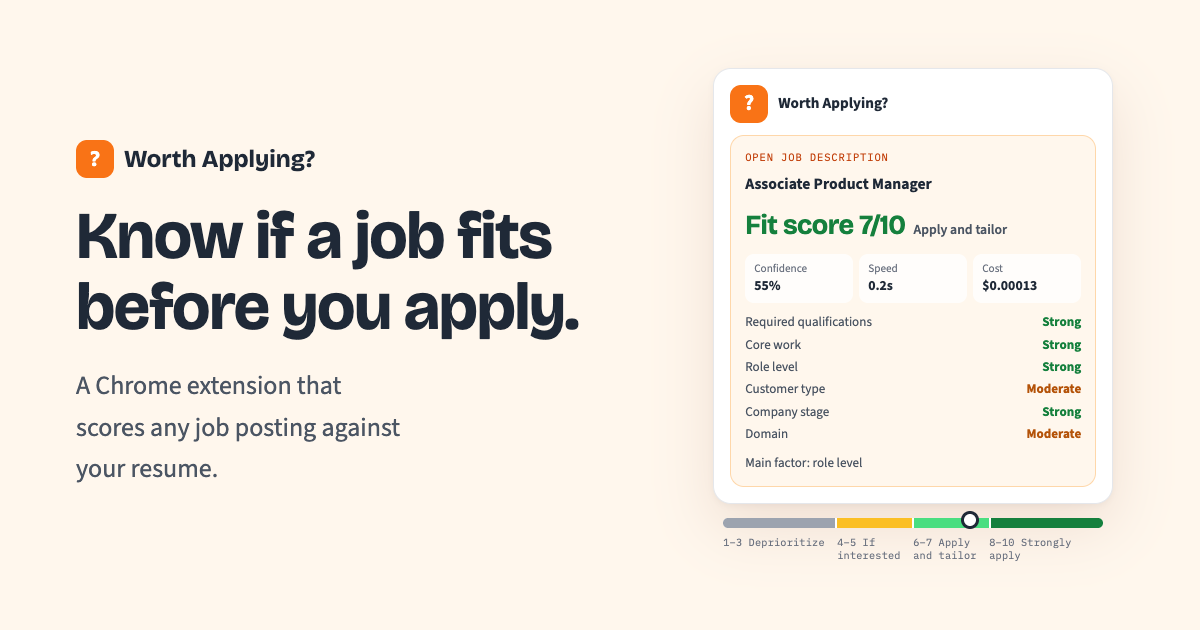
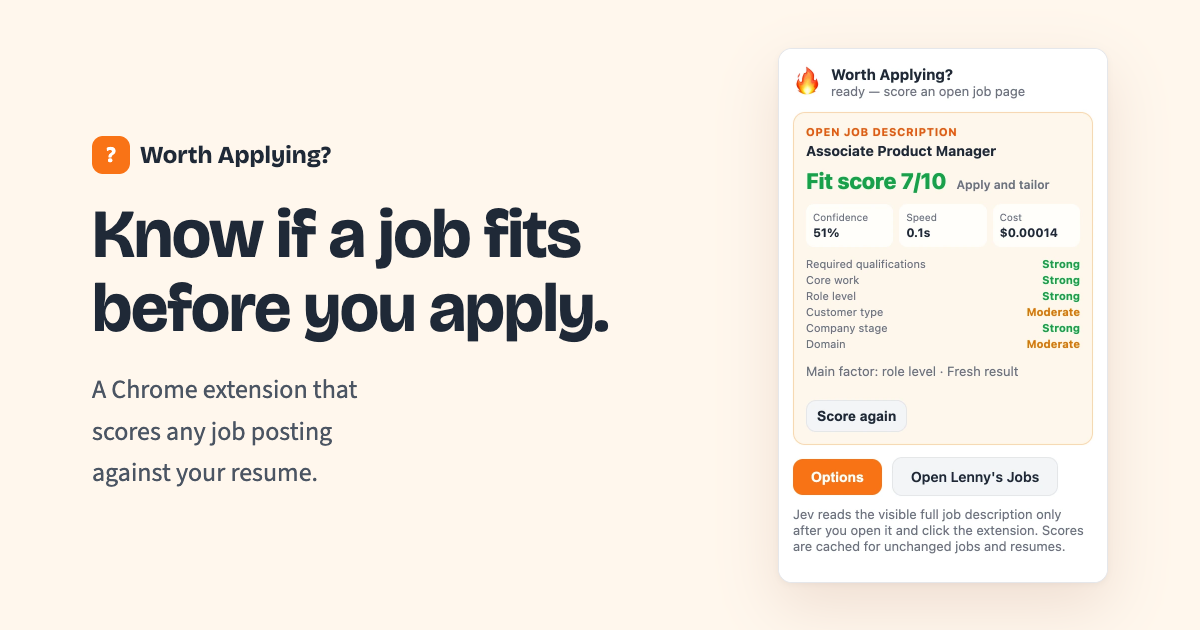
Show the real popup on the landing page
The hero card was a hand-built copy that drifted from the extension. It now shows screenshots of the real popup.html, rendered by scripts/popup-shots.mjs from three test-run results, with buttons to switch between them and a 1 to 10 scale under it.

Also makes the section labels match, draws the fit bar when it scrolls into view, and tightens the install section on phones. The social preview image uses the real popup too.

Claude-Session: https://claude.ai/code/session_016iJaZcnqnPpKMPZEUBNkD9

diff --git a/site/styles.css b/site/styles.css
@@ -1,6 +1,6 @@
 /* Worth Applying? landing page.
-   Layout: one centered column with a two-part hero (copy left, score card right) that stacks on phones.
-   Palette follows the extension: white and ink, its orange as the only accent, green/amber/gray for score bands. */
+   Layout: one centered column with a two-part hero (copy left, the real popup right) that stacks on phones.
+   Palette follows the extension: white and ink, its orange as the only accent, gray/amber/green for score bands. */
 :root {
   --paper: #ffffff;
   --tint: #fff7ed;
@@ -13,7 +13,10 @@
   --accent-dark: #c2410c;
   --good: #15803d;
   --amber: #b45309;
-  --weak: #9ca3af;
+  /* The popup's own score colors, used by the 1 to 10 scale under it. */
+  --score-low: #6b7280;
+  --score-mid: #d97706;
+  --score-high: #16a34a;
   --display: "Bricolage Grotesque", "Avenir Next", "Segoe UI", system-ui, sans-serif;
   --body: "Source Sans 3", "Segoe UI", system-ui, -apple-system, sans-serif;
   --mono: "IBM Plex Mono", ui-monospace, "SF Mono", Menlo, monospace;
@@ -26,6 +29,7 @@ body { margin: 0; background: var(--paper); color: var(--ink); font-family: var(
 img { max-width: 100%; }
 a { color: var(--accent-dark); }
 :focus-visible { outline: 3px solid var(--accent); outline-offset: 3px; border-radius: 6px; }
+.sr-only { position: absolute; width: 1px; height: 1px; padding: 0; margin: -1px; overflow: hidden; clip: rect(0, 0, 0, 0); white-space: nowrap; border: 0; }
 
 .wrap { max-width: 1080px; margin: 0 auto; padding-inline: 24px; }
 .narrow { max-width: 680px; }
@@ -63,47 +67,45 @@ p { margin: 0; }
 .hero-copy > :nth-child(5) { animation-delay: 360ms; }
 .lede { font-size: 1.25rem; color: var(--ink-2); max-width: 32ch; }
 .fine { font-size: 0.92rem; color: var(--muted); }
-.hero-visual { display: grid; gap: 14px; justify-items: center; animation: rise 800ms 220ms cubic-bezier(0.2, 0.7, 0.2, 1) both; }
+.hero-visual { display: grid; gap: 16px; justify-items: center; animation: rise 800ms 220ms cubic-bezier(0.2, 0.7, 0.2, 1) both; }
 
-/* The extension's result card */
-.card { width: 100%; max-width: 380px; background: var(--paper); border: 1px solid var(--line); border-radius: 18px; padding: 16px; box-shadow: 0 24px 60px rgba(124, 45, 18, 0.12), 0 2px 6px rgba(0, 0, 0, 0.04); }
-.card-head { display: flex; align-items: center; gap: 10px; font-weight: 700; font-size: 0.95rem; }
-.card-head .brand-mark { width: 24px; height: 24px; border-radius: 7px; font-size: 0.85rem; }
-.result { margin-top: 12px; background: var(--tint); border: 1px solid var(--tint-line); border-radius: 14px; padding: 14px; display: grid; gap: 10px; font-size: 0.86rem; line-height: 1.4; }
-.result-eyebrow { font-family: var(--mono); font-size: 0.66rem; letter-spacing: 0.08em; text-transform: uppercase; color: var(--accent-dark); }
-.result-job { font-weight: 700; font-size: 0.98rem; }
-.result-score { display: flex; flex-wrap: wrap; align-items: baseline; gap: 8px; }
-.score-big { font-family: var(--display); font-weight: 700; font-size: 1.7rem; color: var(--good); letter-spacing: -0.02em; }
-.score-tier { font-weight: 600; color: var(--ink-2); }
-.metrics { display: grid; grid-template-columns: repeat(3, 1fr); gap: 6px; margin: 0; }
-.metrics div { background: rgba(255, 255, 255, 0.8); border-radius: 9px; padding: 7px 9px; }
-.metrics dt { font-size: 0.7rem; color: var(--muted); }
-.metrics dd { margin: 0; font-weight: 700; }
-.scorecard { display: grid; grid-template-columns: 1fr auto; gap: 4px 12px; margin: 0; font-size: 0.82rem; }
-.scorecard dt { color: var(--ink-2); }
-.scorecard dd { margin: 0; font-weight: 700; text-align: right; }
-.strong { color: var(--good); }
-.moderate { color: var(--amber); }
-.result-status { font-size: 0.82rem; color: var(--ink-2); }
+/* Sample picker above the popup. Hidden without JavaScript, since it does nothing then. */
+.picker { display: grid; gap: 10px; justify-items: center; }
+.picker-label { font-family: var(--mono); font-size: 0.72rem; letter-spacing: 0.08em; text-transform: uppercase; color: var(--muted); }
+.picker-buttons { display: flex; flex-wrap: wrap; justify-content: center; gap: 8px; }
+.picker button { font: 600 0.9rem/1.2 var(--body); color: var(--ink-2); background: var(--paper); border: 1px solid var(--line); border-radius: 999px; padding: 8px 14px; cursor: pointer; transition: border-color 160ms ease, background 160ms ease, color 160ms ease; }
+.picker button:hover { border-color: var(--ink-2); color: var(--ink); }
+.picker button[aria-pressed="true"] { background: var(--ink); border-color: var(--ink); color: #fff; }
+html:not(.js) .picker { display: none; }
 
-/* The 1 to 10 verdict scale under the card */
-.scale { width: 100%; max-width: 380px; }
-.scale-bar { position: relative; display: grid; grid-template-columns: 3fr 2fr 2fr 3fr; height: 10px; border-radius: 999px; overflow: hidden; gap: 2px; background: var(--paper); }
-.scale-bar span:nth-child(1) { background: var(--weak); }
-.scale-bar span:nth-child(2) { background: #fbbf24; }
-.scale-bar span:nth-child(3) { background: #4ade80; }
-.scale-bar span:nth-child(4) { background: var(--good); }
+/* The real popup, captured by scripts/popup-shots.mjs at its actual size. The samples sit stacked and fade into each other. */
+.popup-frame { display: grid; width: min(100%, 330px); background: #fff; border: 1px solid var(--line); border-radius: 14px; overflow: hidden; box-shadow: 0 24px 60px rgba(124, 45, 18, 0.12), 0 2px 6px rgba(0, 0, 0, 0.04); }
+.shot { grid-area: 1 / 1; align-self: start; display: block; width: 100%; height: auto; opacity: 0; transition: opacity 240ms ease; }
+.shot.is-on { opacity: 1; }
+
+/* The 1 to 10 scale under the popup: ten cells in the popup's colors, a ring on the score, and the four recommendation tiers. */
+.scale { --gap: 3px; width: min(100%, 330px); }
+.scale-bar { display: grid; grid-template-columns: repeat(10, minmax(0, 1fr)); gap: var(--gap); height: 10px; }
+.scale-bar span { border-radius: 3px; background: var(--score-low); }
+.scale-bar span:nth-child(n+4) { background: var(--score-mid); }
+.scale-bar span:nth-child(n+7) { background: var(--score-high); }
 .scale-track { position: relative; height: 0; }
-.marker { position: absolute; top: -17px; left: 0; width: 18px; height: 18px; margin-left: -9px; border-radius: 50%; background: var(--paper); border: 3px solid var(--ink); animation: slide 1100ms 700ms cubic-bezier(0.2, 0.7, 0.2, 1) both; }
-.scale-labels { display: grid; grid-template-columns: 3fr 2fr 2fr 3fr; margin-top: 8px; font-family: var(--mono); font-size: 0.64rem; color: var(--muted); letter-spacing: 0.02em; }
-.scale-labels span { padding-right: 6px; line-height: 1.3; }
+/* Centers the ring on cell --s: ten equal cells share the row with nine gaps. */
+.marker { position: absolute; top: -14px; left: calc((100% - 9 * var(--gap)) / 10 * (var(--s) - 0.5) + var(--gap) * (var(--s) - 1)); width: 18px; height: 18px; margin-left: -9px; border-radius: 50%; background: var(--paper); border: 3px solid var(--ink); transition: left 600ms cubic-bezier(0.2, 0.7, 0.2, 1); animation: slide 1100ms 700ms cubic-bezier(0.2, 0.7, 0.2, 1) backwards; }
+.scale-labels { display: grid; grid-template-columns: repeat(10, minmax(0, 1fr)); column-gap: var(--gap); margin-top: 10px; font-size: 0.74rem; line-height: 1.3; color: var(--muted); }
+.scale-labels span { padding-right: 4px; transition: color 200ms ease; }
+.scale-labels span:first-child, .scale-labels span:last-child { grid-column: span 3; }
+.scale-labels span:nth-child(2), .scale-labels span:nth-child(3) { grid-column: span 2; }
+.scale-labels b { display: block; font-family: var(--mono); font-size: 0.68rem; font-weight: 500; }
+/* Color only: a bolder label would rewrap and shift the caption on every switch. */
+.scale-labels .on { color: var(--ink); }
 .caption { font-size: 0.85rem; color: var(--muted); text-align: center; }
 
 /* Sections */
 section.band { padding-block: 96px; border-top: 1px solid var(--line); }
 section.band.tinted { background: var(--tint); border-top: 0; }
 .section-head { display: grid; gap: 14px; margin-bottom: 40px; }
-.section-head p { color: var(--ink-2); font-size: 1.12rem; max-width: 60ch; }
+.section-head p:not(.label) { color: var(--ink-2); font-size: 1.12rem; max-width: 60ch; }
 
 /* Fit split bar */
 .split { display: flex; height: 64px; gap: 3px; border-radius: 14px; overflow: hidden; }
@@ -144,6 +146,7 @@ section.band.tinted { background: var(--tint); border-top: 0; }
 
 /* Install */
 .install { display: grid; grid-template-columns: minmax(0, 1fr) minmax(0, 1fr); gap: 56px; align-items: start; }
+.install .section-head { margin-bottom: 0; }
 .install ol { margin: 0; padding-left: 1.3em; display: grid; gap: 12px; color: var(--ink-2); }
 code { font-family: var(--mono); font-size: 0.88em; background: var(--tint); border: 1px solid var(--tint-line); border-radius: 6px; padding: 1px 6px; color: var(--ink); }
 .perms { width: 100%; border-collapse: collapse; color: var(--ink-2); }
@@ -165,7 +168,7 @@ code { font-family: var(--mono); font-size: 0.88em; background: var(--tint); bor
 .doc p { color: var(--ink-2); }
 
 @keyframes rise { from { opacity: 0; transform: translateY(14px); } to { opacity: 1; transform: none; } }
-@keyframes slide { from { left: 0; } to { left: 65%; } }
+@keyframes slide { from { left: 0; } }
 
 @media (max-width: 860px) {
   .hero { grid-template-columns: minmax(0, 1fr); gap: 48px; padding-block: 16px 72px; }
@@ -177,11 +180,15 @@ code { font-family: var(--mono); font-size: 0.88em; background: var(--tint); bor
   body { font-size: 17px; }
   .dims-list div { grid-template-columns: minmax(0, 1fr); gap: 2px; }
   .split > div { font-size: 1rem; padding-inline: 10px; }
-  .scale-labels { font-size: 0.58rem; }
+  .install .actions .btn { flex: 1 1 100%; justify-content: center; }
   .perms td:first-child { white-space: normal; }
+}
+/* app.js adds .reveal, then .in once the fit bar is on screen, so the bar draws from left to right. */
+@media (prefers-reduced-motion: no-preference) {
+  .reveal .split { clip-path: inset(0 0 0 0); transition: clip-path 1300ms cubic-bezier(0.65, 0, 0.35, 1); }
+  .reveal .split:not(.in) { clip-path: inset(0 100% 0 0); }
 }
 @media (prefers-reduced-motion: reduce) {
   *, *::before, *::after { animation: none !important; transition: none !important; }
-  .marker { left: 65%; }
   html { scroll-behavior: auto; }
 }

diff --git a/site/index.html b/site/index.html
@@ -3,6 +3,7 @@
 <head>
   <meta charset="utf-8">
   <meta name="viewport" content="width=device-width, initial-scale=1">
+  <script>document.documentElement.classList.add("js");</script>
   <title>Worth Applying? Chrome extension for job fit scores</title>
   <meta name="description" content="Open-source Chrome extension that scores how well a job posting fits your resume. Get a 1 to 10 fit score, a scorecard, and whether to apply.">
   <meta name="robots" content="index, follow, max-image-preview:large">
@@ -26,6 +27,7 @@
   <link rel="preconnect" href="https://fonts.gstatic.com" crossorigin>
   <link rel="stylesheet" href="https://fonts.googleapis.com/css2?family=Bricolage+Grotesque:opsz,wght@12..96,600;12..96,700&family=IBM+Plex+Mono:wght@400;500&family=Source+Sans+3:wght@400;600;700&display=swap">
   <link rel="stylesheet" href="styles.css">
+  <script src="app.js" defer></script>
   <script type="application/ld+json">
   {
     "@context": "https://schema.org",
@@ -74,34 +76,27 @@
       </div>
 
       <div class="hero-visual">
-        <div class="card" role="img" aria-label="Extension result: fit score 7 out of 10, apply and tailor. Scorecard: required qualifications strong, core work strong, role level strong, customer type moderate, company stage strong, domain moderate.">
-          <div class="card-head"><span class="brand-mark" aria-hidden="true">?</span>Worth Applying?</div>
-          <div class="result">
-            <p class="result-eyebrow">Open job description</p>
-            <p class="result-job">Associate Product Manager</p>
-            <p class="result-score"><span class="score-big">Fit score 7/10</span><span class="score-tier">Apply and tailor</span></p>
-            <dl class="metrics">
-              <div><dt>Confidence</dt><dd>55%</dd></div>
-              <div><dt>Speed</dt><dd>0.2s</dd></div>
-              <div><dt>Cost</dt><dd>$0.00013</dd></div>
-            </dl>
-            <dl class="scorecard">
-              <dt>Required qualifications</dt><dd class="strong">Strong</dd>
-              <dt>Core work</dt><dd class="strong">Strong</dd>
-              <dt>Role level</dt><dd class="strong">Strong</dd>
-              <dt>Customer type</dt><dd class="moderate">Moderate</dd>
-              <dt>Company stage</dt><dd class="strong">Strong</dd>
-              <dt>Domain</dt><dd class="moderate">Moderate</dd>
-            </dl>
-            <p class="result-status">Main factor: role level</p>
+        <div class="picker" role="group" aria-labelledby="picker-label">
+          <span class="picker-label" id="picker-label">Same resume, three postings</span>
+          <div class="picker-buttons">
+            <button type="button" data-sample="apm" data-score="7" data-summary="Associate Product Manager: fit score 7 out of 10, apply and tailor." aria-pressed="true">Associate PM</button>
+            <button type="button" data-sample="growth" data-score="4" data-summary="Product Manager, Growth Strategy: fit score 4 out of 10, apply if interested." aria-pressed="false">Growth PM</button>
+            <button type="button" data-sample="engineer" data-score="2" data-summary="Lead, Software Engineer: fit score 2 out of 10, deprioritize." aria-pressed="false">Lead engineer</button>
           </div>
         </div>
-        <div class="scale" aria-hidden="true">
-          <div class="scale-bar"><span></span><span></span><span></span><span></span></div>
-          <div class="scale-track"><span class="marker"></span></div>
-          <div class="scale-labels"><span>1–3 Deprioritize</span><span>4–5 If interested</span><span>6–7 Apply and tailor</span><span>8–10 Strongly apply</span></div>
+        <!-- Screenshots of the real popup. Regenerate with scripts/popup-shots.mjs after changing the popup. -->
+        <div class="popup-frame">
+          <img class="shot is-on" data-shot="apm" src="popup-apm.webp" width="328" height="533" fetchpriority="high" alt="The Worth Applying? popup on an Associate Product Manager posting: fit score 7/10, apply and tailor. Confidence 51%, speed 0.1s, cost $0.00014. Required qualifications, core work, role level, and company stage are strong. Customer type and domain are moderate. Main factor: role level.">
+          <img class="shot" data-shot="growth" src="popup-growth.webp" width="328" height="549" aria-hidden="true" alt="The Worth Applying? popup on a Product Manager, Growth Strategy posting: fit score 4/10, apply if interested. Confidence 82%, speed 0.1s, cost $0.00015. Required qualifications are weak. The other five parts are moderate. Main factor: required qualifications.">
+          <img class="shot" data-shot="engineer" src="popup-engineer.webp" width="328" height="549" aria-hidden="true" alt="The Worth Applying? popup on a Lead, Software Engineer posting: fit score 2/10, deprioritize. Confidence 98%, speed 0.1s, cost $0.00018. Required qualifications, core work, role level, and domain are weak. Customer type and company stage are moderate. Main factor: required qualifications.">
         </div>
-        <p class="caption">A real result from our test run, with the company removed.</p>
+        <div class="scale" aria-hidden="true" style="--s: 7">
+          <div class="scale-bar"><span></span><span></span><span></span><span></span><span></span><span></span><span></span><span></span><span></span><span></span></div>
+          <div class="scale-track"><span class="marker"></span></div>
+          <div class="scale-labels"><span><b>1–3</b>Deprioritize</span><span><b>4–5</b>If interested</span><span class="on"><b>6–7</b>Apply and tailor</span><span><b>8–10</b>Strongly apply</span></div>
+        </div>
+        <p class="caption">Real results from our test run, with company names removed.</p>
+        <p class="sr-only" aria-live="polite" data-live></p>
       </div>
     </section>
 

diff --git a/site/app.js b/site/app.js
@@ -1,0 +1,43 @@
+// Worth Applying? landing page: switches the sample popup in the hero, and draws the
+// fit bar when it scrolls into view. The page reads fine without this file.
+document.documentElement.classList.add("reveal");
+
+// Lowest score in each recommendation tier, and that tier's label on the scale.
+const TIERS = [[8, 3], [6, 2], [4, 1], [1, 0]];
+
+const scale = document.querySelector(".scale");
+const labels = [...document.querySelectorAll(".scale-labels span")];
+const shots = [...document.querySelectorAll("[data-shot]")];
+const buttons = [...document.querySelectorAll("[data-sample]")];
+const live = document.querySelector("[data-live]");
+
+function select(button) {
+  const score = Number(button.dataset.score);
+  for (const other of buttons) other.setAttribute("aria-pressed", String(other === button));
+  for (const shot of shots) {
+    const on = shot.dataset.shot === button.dataset.sample;
+    shot.classList.toggle("is-on", on);
+    if (on) shot.removeAttribute("aria-hidden");
+    else shot.setAttribute("aria-hidden", "true");
+  }
+  scale.style.setProperty("--s", score);
+  const tier = TIERS.find(([min]) => score >= min)[1];
+  labels.forEach((label, index) => label.classList.toggle("on", index === tier));
+  live.textContent = button.dataset.summary;
+}
+
+for (const button of buttons) button.addEventListener("click", () => select(button));
+
+// Watch the legend under the bar, not the bar: the bar starts clipped to nothing,
+// and a fully clipped element never counts as visible.
+const split = document.querySelector(".split");
+if ("IntersectionObserver" in window) {
+  const observer = new IntersectionObserver((entries) => {
+    if (!entries.some((entry) => entry.isIntersecting)) return;
+    split.classList.add("in");
+    observer.disconnect();
+  }, { rootMargin: "0px 0px -15% 0px" });
+  observer.observe(document.querySelector(".split-legend"));
+} else {
+  split.classList.add("in");
+}

diff --git a/CONTRIBUTING.md b/CONTRIBUTING.md
@@ -13,6 +13,8 @@ Thanks for helping. This page covers how the code is laid out, how to change the
 | `cli.js` | The same scoring from the command line |
 | `test/` | Tests for the score math, the worker, and loading the extension |
 | `eval/` | The scripts behind the numbers in the README |
+| `site/` | The landing page at worth-applying.vercel.app |
+| `scripts/popup-shots.mjs` | Renders the real popup into the landing page's screenshots. Rerun it after changing the popup: `CHROME_BIN=... node scripts/popup-shots.mjs` |
 
 ## Change the scoring
 
